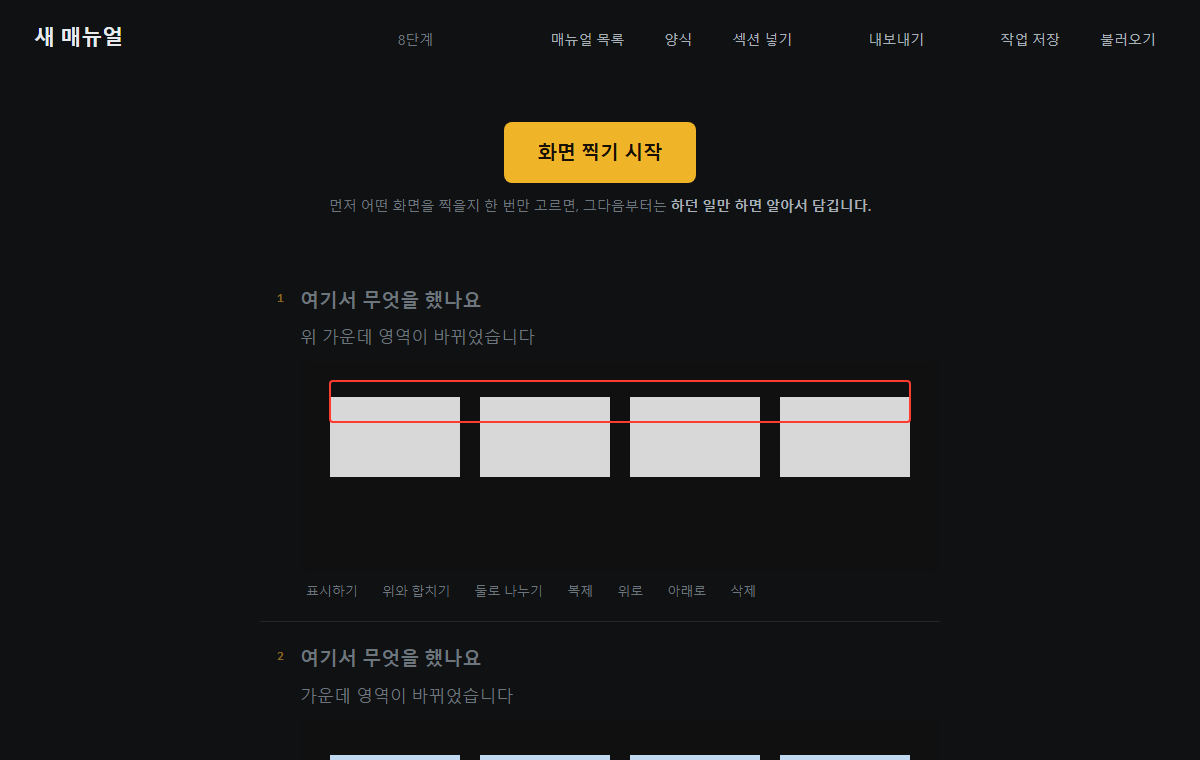
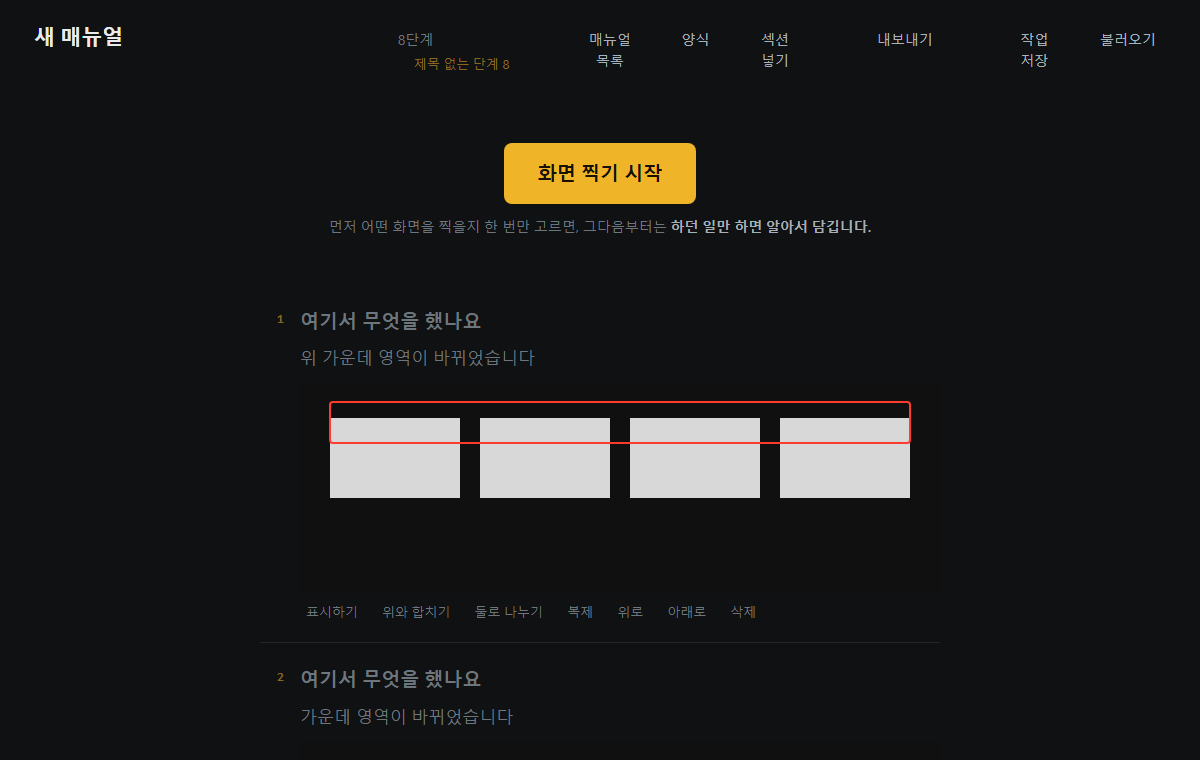
쓰는 흐름에서 막히는 자리를 풀었다
보이는 것을 고친 뒤, 이번엔 일하는 순서를 따라가며 막히는 자리를 찾았다.

- 찍는 동안 사용자는 다른 창에서 일한다. 이 창을 안 보니 몇 장 담겼는지
  알 길이 없었다 → 탭 제목이 알린다: "3장 · 담는 중 — showhow"
- 제목이 빈 단계가 몇 개인지 몰랐다 → 위쪽에 남은 수를 띄우고,
  누르면 첫 빈칸으로 가서 커서까지 놓는다
- 좁은 화면 규칙이 하나도 없었다 → 1100·880·560px 세 단으로.
  실제로 창을 줄여 여섯 폭에서 재는 검사를 붙였다 (420px 에서 39px 밀리던 것도 고침)
- 글 폭이 좁은 화면에서 840px 까지 늘어 규격(40자=680px)을 넘었다 → 묶었다
- 공유 창을 고르기 전에 무엇을 골라야 하는지 말해 준다 —
  이 창을 고르면 자기 자신이 찍힌다. 고른 뒤엔 늦다

검사가 흔들리던 것도 고쳤다: 진짜 화면 공유는 첫 장면이 오기 전에 재면 0×0 이다.

검사 357건.

diff --git a/index.html b/index.html
@@ -55,6 +55,12 @@
     background: none; max-width: 30ch;
   }
   #top .hint { color: var(--ink-3); font-size: 14px; }
+  /* 아직 채울 것이 남았다는 신호. 경고가 아니라 다음 할 일이라 앰버 한 계단 아래로. */
+  .warnlink {
+    color: var(--amber-2); font-size: 13px; padding: var(--sp-1) var(--sp-2);
+    border-radius: var(--r-9); margin-left: var(--sp-2);
+  }
+  .warnlink:hover { color: var(--amber); background: var(--bg-raise); }
   #top .grow { flex: 1; }
   /* 만들기 · 내보내기 · 파일. 성격이 다르면 사이를 벌린다. 선을 긋지 않는다. */
   #top .tgap { width: var(--sp-5); flex: 0 0 auto; }
@@ -142,7 +148,7 @@
   /* 손질 단추는 그 단계에 손이 갈 때 드러난다.
      늘 보이면 단계 60개에 단추 420개다 — 사진을 읽을 수 없다. */
   .srow {
-    display: flex; gap: var(--sp-3); margin-top: var(--sp-2);
+    display: flex; gap: var(--sp-3); margin-top: var(--sp-2); flex-wrap: wrap;
     opacity: 0; transition: opacity 160ms ease;
   }
   .step:hover .srow, .step:focus-within .srow,
@@ -155,6 +161,10 @@
     content: attr(data-ph); color: var(--ink-3); pointer-events: none;
   }
   #empty { max-width: var(--read); margin: var(--sp-8) auto 0; color: var(--ink-3); text-align: center; }
+  /* 고르는 창이 뜨기 전에 무엇을 골라야 하는지 말해 둔다 — 고른 뒤엔 늦다 */
+  #shootpick { color: var(--ink-3); font-size: 14px; margin-top: var(--sp-3); }
+  #shootpick b { color: var(--ink-2); font-weight: 600; }
+  body:not(.blank) #shootpick { display: none; }
   /* 아직 아무것도 없을 때는 화면 가운데에 모은다. 아래가 텅 비면 물건이 미완성으로 읽힌다. */
   body.blank #stage {
     min-height: calc(100vh - 190px);
@@ -277,7 +287,7 @@
   /* ── 섹션 머리 ── */
   .sec {
     max-width: var(--read); margin: var(--sp-10) auto var(--sp-2);
-    display: flex; align-items: baseline; gap: var(--sp-3);
+    display: flex; align-items: baseline; gap: var(--sp-3); flex-wrap: wrap;
   }
   .sectitle {
     font-size: 15px; font-weight: 600; letter-spacing: .06em;
@@ -341,6 +351,27 @@
   #bottom .grow { flex: 1; }
 
   /* ── 인쇄: 이때만 종이 문서가 된다 ── */
+  /* 화면을 반으로 나눠 쓰면 900px 아래로 내려간다. 그때도 글은 읽혀야 한다. */
+  @media (max-width: 1100px) {
+    #side { width: 148px; padding: var(--sp-4) var(--sp-3); }
+    body.sideon #top, body.sideon #stage, body.sideon #bottom { padding-right: 160px; }
+    .sit img { width: 48px; height: 32px; }
+  }
+  @media (max-width: 880px) {
+    #top { padding: var(--sp-4) var(--sp-5) var(--sp-3); flex-wrap: wrap; }
+    #stage { padding: 0 var(--sp-5) var(--sp-8); }
+    #steps, #empty, .sec { max-width: min(var(--read), 100%); }
+    #side { display: none !important; }          /* 좁으면 옆 목록 대신 탭 제목이 알린다 */
+    body.sideon #top, body.sideon #stage, body.sideon #bottom { padding-right: var(--sp-5); }
+    #shoot { font-size: 17px; padding: 14px 26px; }
+    #outmenu { width: min(300px, calc(100vw - 32px)); }
+  }
+  @media (max-width: 560px) {
+    .step { gap: var(--sp-3); }
+    .stitle { font-size: 18px; }
+    #bottom .hint { display: none; }
+  }
+
   @media print {
     body { background: #fff; color: #111; display: block; }
     #top, #shootwrap, #bottom, .srow, #empty { display: none !important; }
@@ -408,6 +439,7 @@
   <div id="shootwrap">
     <button id="shoot">화면 찍기 시작</button>
     <div id="shootsub">먼저 어떤 화면을 찍을지 한 번만 고르면, 그다음부터는 <b>하던 일만 하면 알아서 담깁니다.</b></div>
+  <div id="shootpick">고르는 창에서는 <b>매뉴얼로 만들 프로그램</b>을 고르세요 — 이 창을 고르면 자기 자신이 찍힙니다.</div>
     <div id="autowrap">
       <button id="autobtn" class="tool on"><span id="autolabel">자동 촬영 켜짐</span></button>
       <button id="titlebtn" class="tool" aria-pressed="false">제목 자동 작성 꺼짐</button>
@@ -588,6 +620,7 @@ function shareEnded() {
   document.body.classList.remove("sideon");
   $("#shoot").textContent = "화면 찍기 시작";
   $("#shootsub").innerHTML = "화면 공유가 끝났습니다. 다시 시작할 수 있습니다.";
+  paintTitle();
   say("화면 공유 종료됨");
 }
 
@@ -634,12 +667,14 @@ function watchStart() {
   WATCH.timer = setInterval(watchTick, 140);
   $("#autolabel").textContent = "자동 촬영 켜짐";
   $("#autobtn").classList.add("on");
+  paintTitle();
 }
 function watchStop() {
   WATCH.on = false;
   clearInterval(WATCH.timer); WATCH.timer = null;
   $("#autolabel").textContent = "자동 촬영 꺼짐";
   $("#autobtn").classList.remove("on");
+  paintTitle();
 }
 /* 되돌리기 창고: 최근 화면을 잠깐 들고 있다가 "아까 그거"를 꺼낸다.
    Dubble Pro가 유료로 파는 기능(영상 되감기)을 같은 목적으로 대체한다.
@@ -863,6 +898,16 @@ function renderSide() {
   $("#side").scrollTop = $("#side").scrollHeight;   // 굴러야 하는 칸은 바깥이다
 }
 
+/* 찍는 동안 사용자는 다른 창에서 일한다. 이 창은 안 본다.
+   탭 제목이 유일하게 보이는 자리라, 담긴 개수를 거기에 적는다. */
+const TITLE0 = document.title;
+function paintTitle() {
+  const n = state.steps.filter(x => !x.sec).length;
+  if (!WATCH.on && !stream) { document.title = TITLE0; return; }
+  const 상태 = state.paused ? "잠시 멈춤" : (WATCH.on ? "담는 중" : "찍기 켜짐");
+  document.title = n + "장 · " + 상태 + " — showhow";
+}
+
 function render() {
   const box = $("#steps");
   box.innerHTML = "";
@@ -870,7 +915,22 @@ function render() {
   document.body.classList.toggle("blank", !state.steps.length);
   const nSteps = state.steps.filter(x => !x.sec).length;
   const nSecs = state.steps.filter(x => x.sec).length;
-  $("#counthint").textContent = nSteps ? nSteps + "단계" + (nSecs ? " · " + nSecs + "섹션" : "") : "";
+  const 빈제목 = state.steps.filter(x => !x.sec && !x.title).length;
+  $("#counthint").innerHTML = nSteps
+    ? esc(nSteps + "단계" + (nSecs ? " · " + nSecs + "섹션" : "")) +
+      (빈제목 ? ' <button id="gonext" class="warnlink">제목 없는 단계 ' + 빈제목 + '</button>' : "")
+    : "";
+  const 가기 = $("#gonext");
+  if (가기) 가기.onclick = () => {
+    const i = state.steps.findIndex(x => !x.sec && !x.title);
+    if (i < 0) return;
+    const el = document.querySelectorAll("#steps .step, #steps .sec")[i];
+    if (!el) return;
+    el.scrollIntoView({ block: "center", behavior: "smooth" });
+    const t = el.querySelector(".stitle");
+    if (t) setTimeout(() => t.focus(), 320);
+  };
+  paintTitle();
   renderSide();
 
   let n = 0, cur = "";
@@ -2364,6 +2424,7 @@ $("#rewbtn").onclick = openRewind;
 $("#pausebtn2").onclick = () => {
   state.paused = !state.paused;
   $("#pausebtn2").textContent = state.paused ? "다시 시작" : "잠시 멈춤";
+  paintTitle();
   $("#pausebtn2").classList.toggle("on", state.paused);
   say(state.paused ? "멈췄습니다 — 담기지 않습니다" : "다시 담습니다");
 };

diff --git a/tests/검사_브라우저_흐름.js b/tests/검사_브라우저_흐름.js
@@ -1,0 +1,88 @@
+(async () => {
+  const out = [];
+  const ok = (n, c, e) => out.push((c ? "통과  " : "실패! ") + n + (e ? " — " + e : ""));
+  const $ = s => document.querySelector(s);
+  const wait = ms => new Promise(r => setTimeout(r, ms));
+  const cv = document.createElement("canvas"); cv.width = 900; cv.height = 560;
+  cv.getContext("2d").fillRect(0, 0, 900, 560);
+  const img = cv.toDataURL("image/png");
+  const 원제목 = document.title;
+
+  // ── 제목이 빈 단계를 알려 주는가 ──
+  docInto({ id: null, name: "흐름 시험", steps: [
+    { sec: true, title: "묶음" },
+    { title: "제목 있는 단계", desc: "", img },
+    { title: "", desc: "", img, auto: true },
+    { title: "", desc: "", img, auto: true },
+  ] });
+  await wait(250);
+
+  const 안내 = $("#counthint").textContent;
+  ok("몇 단계인지 보여 준다", /3단계/.test(안내), 안내.trim());
+  ok("제목이 빈 단계 수를 알려 준다", /제목 없는 단계 2/.test(안내), 안내.trim());
+  ok("누를 수 있는 자리다", !!$("#gonext"));
+
+  // 눌러서 첫 빈칸으로 간다
+  $("#gonext").click();
+  await wait(500);
+  const 초점 = document.activeElement;
+  ok("누르면 첫 빈칸에 손이 간다",
+     초점 && 초점.classList.contains("stitle") && !초점.textContent.trim(),
+     초점 ? (초점.className + " · \"" + 초점.textContent + "\"") : "없음");
+
+  // 채우면 알림이 줄어든다
+  state.steps[2].title = "채운 제목";
+  render();
+  await wait(150);
+  ok("채우면 남은 수가 줄어든다", /제목 없는 단계 1/.test($("#counthint").textContent),
+     $("#counthint").textContent.trim());
+  state.steps[3].title = "또 채움";
+  render();
+  await wait(150);
+  ok("다 채우면 알림이 사라진다", !$("#gonext"), $("#counthint").textContent.trim());
+
+  // ── 탭 제목이 담긴 개수를 알리는가 ──
+  ok("찍기 전에는 원래 제목", document.title === 원제목, document.title);
+
+  const cvs = document.createElement("canvas");
+  cvs.width = 640; cvs.height = 400;
+  cvs.getContext("2d").fillRect(0, 0, 640, 400);
+  const 가짜 = cvs.captureStream(10);
+  const real = navigator.mediaDevices.getDisplayMedia;
+  navigator.mediaDevices.getDisplayMedia = async () => 가짜;
+  $("#shoot").click();
+  await wait(900);
+  ok("찍는 중에는 탭 제목이 개수를 알린다", /3장/.test(document.title) && /담는 중|찍기/.test(document.title),
+     document.title);
+
+  $("#pausebtn2").click();
+  await wait(200);
+  ok("잠시 멈추면 탭 제목도 그렇게 말한다", /잠시 멈춤/.test(document.title), document.title);
+  $("#pausebtn2").click();
+  await wait(200);
+
+  가짜.getVideoTracks()[0].stop();
+  가짜.getVideoTracks()[0].dispatchEvent(new Event("ended"));
+  await wait(400);
+  ok("끝나면 원래 제목으로 돌아온다", document.title === 원제목, document.title);
+  navigator.mediaDevices.getDisplayMedia = real;
+
+  // ── 좁은 화면에서도 글이 읽히는가 ──
+  const 재보기 = () => ({
+    가로밀림: document.documentElement.scrollWidth - window.innerWidth,
+    글폭: Math.round(document.querySelector("#steps").getBoundingClientRect().width),
+    본문: parseFloat(getComputedStyle(document.querySelector(".sdesc")).fontSize),
+  });
+  const 원폭 = window.innerWidth;
+  for (const w of [1100, 880, 560]) {
+    // 창 크기를 못 바꾸므로, 같은 조건을 만드는 규칙이 있는지 본다
+    const 규칙 = [...document.styleSheets].flatMap(sh => { try { return [...sh.cssRules]; } catch (e) { return []; } })
+      .filter(r => r.conditionText && r.conditionText.includes("max-width: " + w + "px"));
+    ok("가로 " + w + "px 규칙이 있다", 규칙.length > 0, 규칙.length + "건");
+  }
+  const 지금 = 재보기();
+  ok("가로로 밀리지 않는다", 지금.가로밀림 <= 1, 지금.가로밀림 + "px");
+  ok("글 폭이 창을 넘지 않는다", 지금.글폭 <= 원폭, 지금.글폭 + " / " + 원폭);
+
+  return out.join("\n");
+})()

diff --git a/README.md b/README.md
@@ -13,7 +13,7 @@
 - **받는 사람에 따라 잘라 냅니다.** 섹션을 빼면 그 섹션은 내보내기에서 통째로 빠집니다.
 - **사진이 컴퓨터를 벗어나지 않습니다.** 서버로 보내는 코드가 없습니다. 인터넷이 끊겨도 됩니다 (제목 자동 작성만 예외 — 아래 참조).
 - **제목 초안을 대신 씁니다.** 바뀐 자리의 글자를 읽어 「다음 누르기」처럼 채웁니다. 흔한 단추 64개로 재서 **44개를 맞혔습니다**(틀림 10 · 빈칸 10). 읽는 일도 이 컴퓨터 안에서 합니다.
-- **검사 336건이 통과한 상태로 배포합니다.** 그중 206건은 진짜 브라우저에서, 10건은 진짜 화면 공유로 돌립니다.
+- **검사 357건이 통과한 상태로 배포합니다.** 그중 227건은 진짜 브라우저에서, 10건은 진짜 화면 공유로 돌립니다.
 
 ## 30초 만에 써 보기
 
@@ -50,6 +50,8 @@ showhow 는 클릭 대신 **화면이 얼마나 바뀌었는지** 를 봅니다.
 한 번에 오래 움직인 화면은 3초 동안 "영상"으로 기억해 두고, 그동안은 1.5초를 기다립니다. 그래서 스크롤이나 영상에서 사진이 쌓이지 않습니다.
 
 화면이 너무 오래 쉬지 않아 담지 못하고 있으면 그렇게 말해 줍니다. 그때는 <kbd>Space</kbd> 로 직접 찍으면 됩니다.
+
+찍는 동안에는 이 창을 안 보게 됩니다. 그래서 **탭 제목이 대신 알려 줍니다** — `3장 · 담는 중 — showhow`.
 
 ## 담긴 것을 다듬는다
 
@@ -139,7 +141,7 @@ node tests/검사_전체.mjs        # 브라우저 없이 도는 검사 66건
 
 npm i -D playwright             # 브라우저 검사를 돌리려면
 npx playwright install msedge
-node tests/검사_전부.mjs        # 전부 336건
+node tests/검사_전부.mjs        # 전부 357건
 ```
 
 돌리면 이렇게 나옵니다.
@@ -149,13 +151,14 @@ node tests/검사_전부.mjs        # 전부 336건
 통과    검사_양식.mjs            9건    0.2초   양식 저장·불러오기
 통과    검사_기능표.mjs          31건    0.1초   상용 제품 기능 대조
 통과    검사_요청대조.mjs         24건    0.1초   합격 기준 두 축 — 요청 원문·우리 회사 실패
-통과    검사_브라우저.mjs        147건   21.5초   진짜 브라우저 — 내보내기·보관함·표시·손질·규격
+통과    검사_브라우저.mjs        162건   23.5초   진짜 브라우저 — 내보내기·보관함·표시·손질·규격·흐름
 통과    검사_촬영.mjs           23건   29.9초   진짜 브라우저 — 자동 촬영 전 과정
-통과    검사_인쇄.mjs            8건    3.4초   진짜 브라우저 — PDF 출력
+통과    검사_인쇄.mjs            8건    3.2초   진짜 브라우저 — PDF 출력
+통과    검사_좁은화면.mjs          6건    3.9초   창을 실제로 줄여 본다
 통과    검사_제목.mjs           18건     15초   단계 글 자동 작성 — 화면 글자 읽기
 통과    검사_진짜공유.mjs         10건   28.6초   대역 없이 진짜 화면 공유 (창이 잠깐 뜬다)
 
-합계 336건 통과 · 실패 없음
+합계 357건 통과 · 실패 없음
 ```
 
 `tests/검사_기능표.mjs` 는 상용 제품이 가진 기능 26가지를 이 코드가 실제로 갖고 있는지 파일에서 확인합니다. 사람 기억이 아니라 파일이 근거입니다.

diff --git a/README.en.md b/README.en.md
@@ -13,7 +13,7 @@
 - **Cuts per audience.** Mark a section as excluded and it disappears from every export.
 - **Screenshots never leave the machine.** No code in this file sends anything anywhere. It works offline (auto-titles are the one exception — see below).
 - **Drafts the step titles.** It reads the text inside the changed region and fills in a title like "다음 누르기" (press Next). Measured on 64 common buttons: **44 correct**, 10 wrong, 10 blank. The reading happens on your machine.
-- **Ships with 336 passing tests.** 206 of them run in a real browser, and 10 run against a real screen-share stream with nothing stubbed.
+- **Ships with 357 passing tests.** 227 of them run in a real browser, and 10 run against a real screen-share stream with nothing stubbed.
 
 ## Try it in 30 seconds
 
@@ -126,7 +126,7 @@ node tests/검사_전체.mjs        # 66 tests, no browser needed
 
 npm i -D playwright             # for the browser tests
 npx playwright install msedge
-node tests/검사_전부.mjs        # all 336
+node tests/검사_전부.mjs        # all 357
 ```
 
 `tests/검사_기능표.mjs` checks 26 features found in commercial tools against this source file, so the parity claim is verified by the file rather than by memory.
